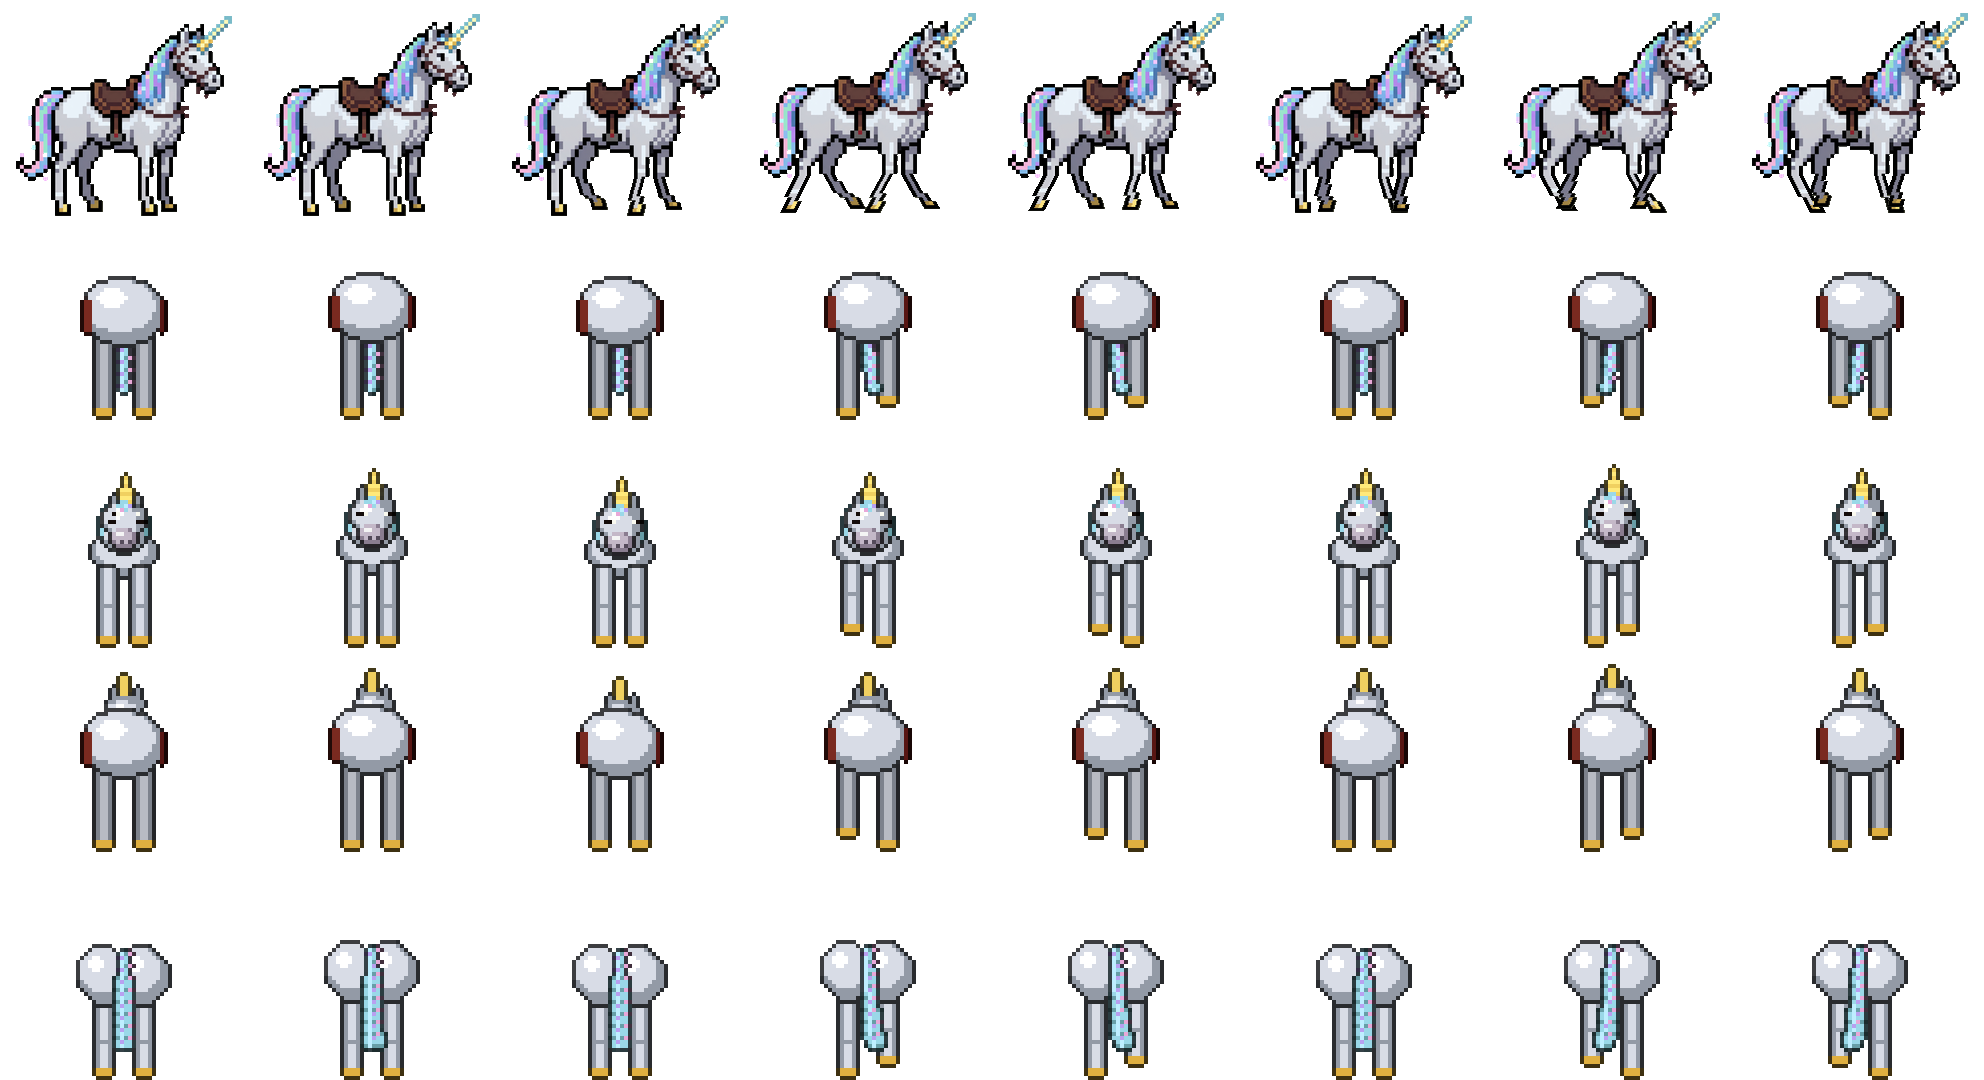
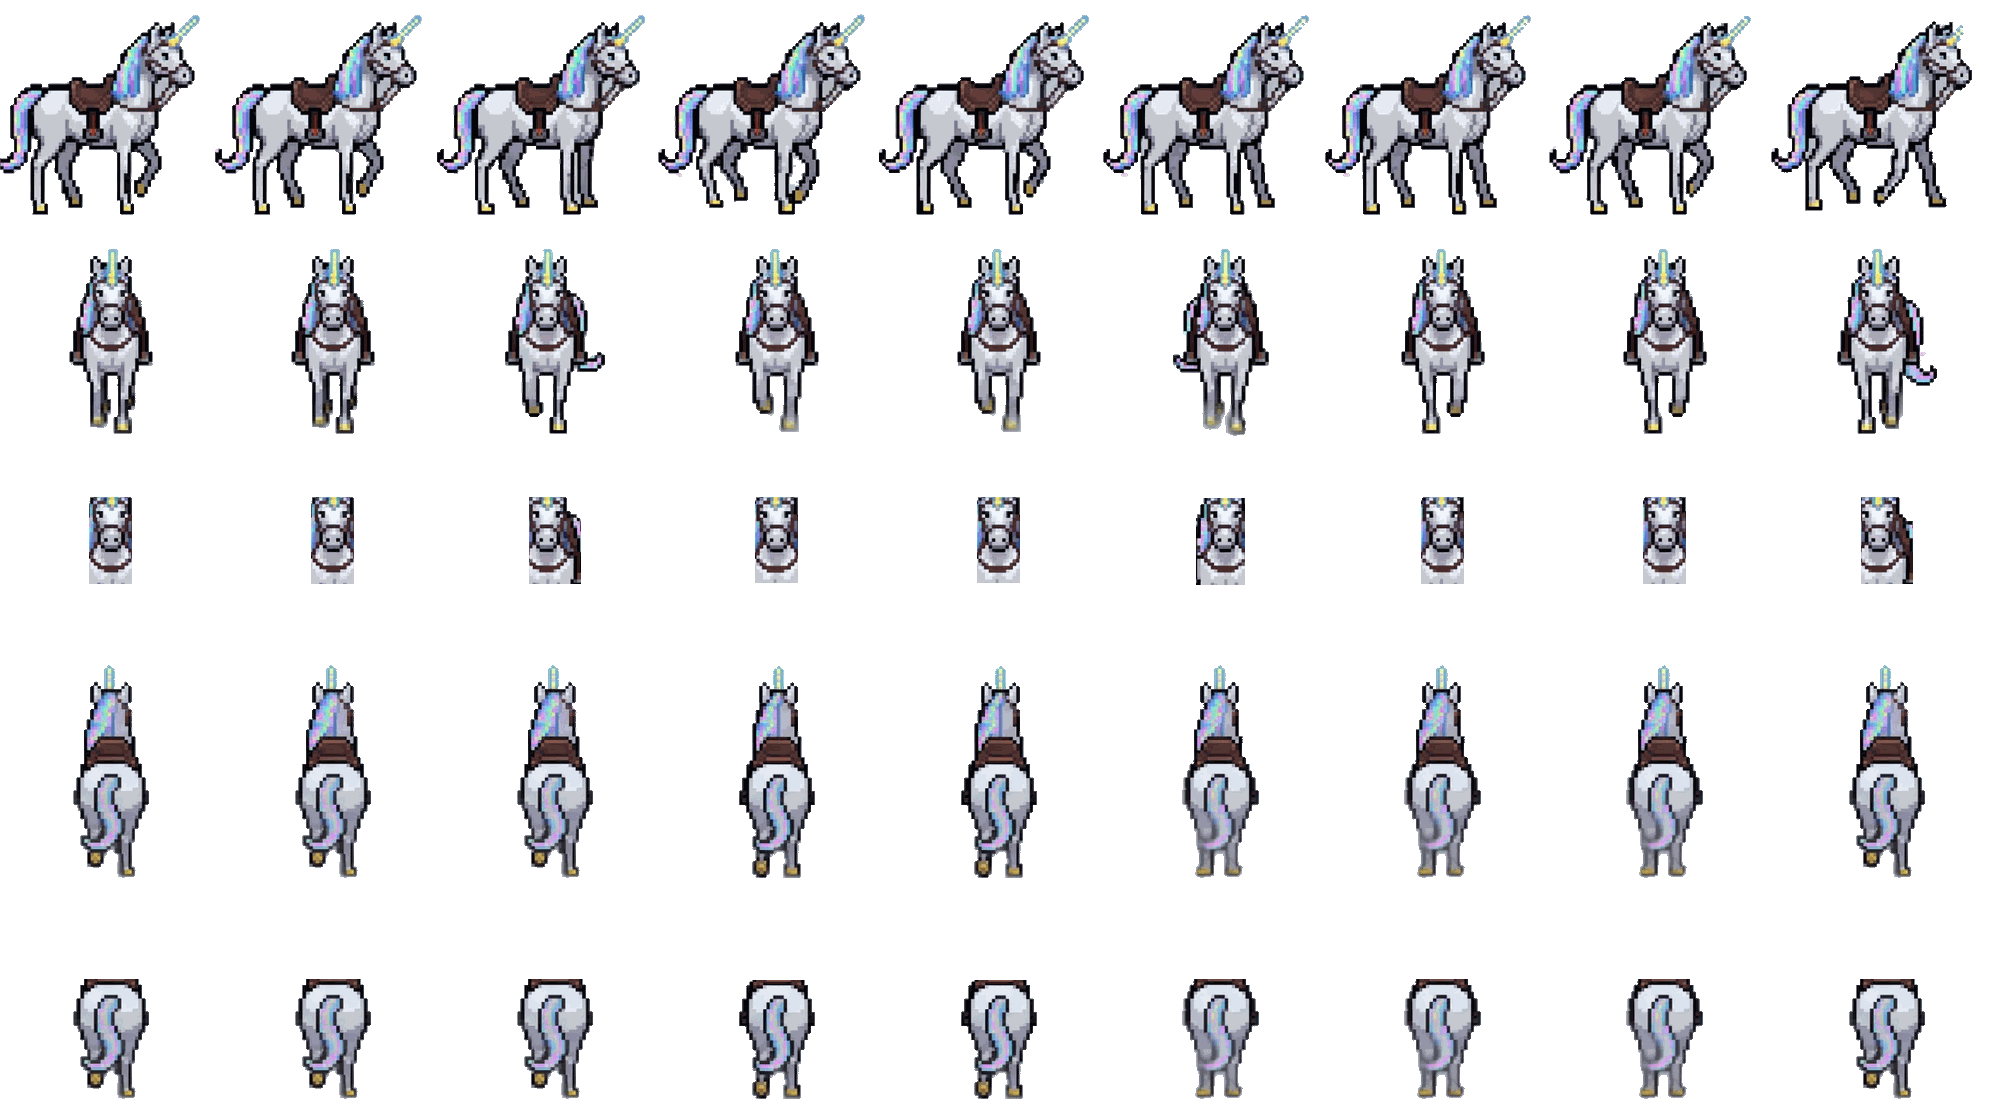
Bach Ma and Hoa Ky Lan: hand-drawn 4-direction sprites
tools/mount_art/fourdir.py extracts frames from the provided sheets
(background, shadows and blurry frames removed) and builds 5-row sheets
with front/back layers drawn over the rider; horns stay behind the rider.

Claude-Session: https://claude.ai/code/session_01AqWtbjMjwaw5KPYKGcCy7Z

diff --git a/server/data/changelog.js b/server/data/changelog.js
@@ -4,6 +4,7 @@ const CHANGELOG = [
   {
     date: '02/11/2026',
     items: [
+      '🦄 Bạch Mã và Hỏa Kỳ Lân có hình 4 hướng mới vẽ tay: mặt trước, sau lưng, nhìn ngang với dáng chạy; bờm và đuôi đung đưa theo nhịp.',
       '🔧 Sửa Hắc Mã trông như đang bay (móng ngựa giờ chạm đất ở cả 4 hướng). Khung danh hiệu dời lên cao hơn, không còn che tên nhân vật.',
       '🐴 Hắc Mã (ngựa ô truy chiến giáp) có hình 4 hướng mới vẽ tay: mặt trước, sau lưng và nhìn ngang với dáng chạy 8 nhịp, giáp xích, chùm lông đỏ trên mũ.',
       '📦 HÒM ĐỒ: khi túi đầy, phần thưởng phó bản, sự kiện, boss, áp tiêu và quà gửi lúc offline không còn rơi xuống đất hay bị mất nữa mà được giữ trong Hòm Đồ. Mở Túi đồ → bấm "Nhận" khi đã dọn chỗ.',

diff --git a/tools/mount_art/fourdir.py b/tools/mount_art/fourdir.py
@@ -1,0 +1,128 @@
+# Thú cưỡi 4 hướng từ sheet người dùng gửi (Bạch Mã, Hỏa Kỳ Lân): hàng mặt trước, sau lưng, ngang quay trái, ngang quay phải.
+#   Tách khung (một lần, từ ảnh gốc):  python3 fourdir.py extract <id> <ảnh gốc>
+#   Ghép sheet vào game:               python3 fourdir.py build [id ...]
+# Chạy SAU build.py / views.py (ghi đè public/assets/mounts/<id>.png). Hắc Mã dùng hacma.py.
+# Hàng sheet: 0 ngang (quay phải) | 1 trước-lớp sau | 2 trước-lớp đè người cưỡi (đầu, cổ, ngực) | 3 sau-lớp sau | 4 sau-lớp đè (mông, đuôi)
+import json, os, sys
+import numpy as np
+from PIL import Image
+from scipy import ndimage as nd
+OUT = '/home/user/Game2d/public/assets/'
+HERE = os.path.dirname(os.path.abspath(__file__))
+PAD = 6
+NR = 8
+# front/back: các khung dùng được (bỏ khung mờ); side: hàng quay phải
+# h: chiều cao thân khi nhìn ngang trên màn hình (px); seat_fx: yên ngựa tính từ phía đuôi (tỉ lệ bề ngang); seat_dy: thấp hơn lưng
+CFG = {
+    # side=7: khung ngang thứ 8 dính logo góc ảnh -> bỏ; hole: (ngưỡng màu, cỡ tối thiểu) lỗ hở kín giữa chân/cổ cần khoét (thân trắng gần màu nền: ngưỡng thấp)
+    'bach_ma': dict(h=100, front=6, back=3, side=7, seat_fx=0.40, seat_dy=8, down=0.16, cut=0.44, ftop=0.15, shadow=None, hole=(9, 250)),
+    'hoa_ky_lan': dict(h=104, front=6, back=6, side=7, seat_fx=0.47, seat_dy=8, down=0.17, cut=0.44, ftop=0.10, shadow=(147, 120, 112), hole=(26, 25)),
+}
+
+def rows_of(objs):
+    """gom khung theo hàng (tâm y gần nhau)"""
+    objs = sorted(objs, key=lambda o: (o[1][0].start + o[1][0].stop) / 2)
+    rows, cur = [], []
+    for o in objs:
+        cy = (o[1][0].start + o[1][0].stop) / 2
+        if cur and cy - (cur[-1][1][0].start + cur[-1][1][0].stop) / 2 > 60: rows.append(cur); cur = []
+        cur.append(o)
+    if cur: rows.append(cur)
+    return [sorted(r, key=lambda o: o[1][1].start) for r in rows]
+
+def extract(mid, path):
+    cfg = CFG[mid]
+    a = np.asarray(Image.open(path).convert('RGB')).astype(int)
+    bg = np.median(np.concatenate([a[:, :10], a[:, -10:]], 1), 1)[:, None, :]
+    d = np.abs(a - bg).sum(2)
+    lab, n = nd.label(d < 34)
+    border = set(lab[0, :]) | set(lab[-1, :]) | set(lab[:, 0]) | set(lab[:, -1]); border.discard(0)
+    fg = ~np.isin(lab, list(border))
+    if cfg['shadow'] is not None:   # bóng tròn dưới chân (game tự vẽ bóng)
+        fg &= np.abs(a - np.array(cfg['shadow'])).sum(2) > 48
+    fg = nd.binary_opening(fg, iterations=1)
+    hd, hm = cfg['hole']
+    hole = (d < hd) & fg; hl, hn = nd.label(hole); hs = nd.sum(hole, hl, range(1, hn + 1))
+    fg &= ~np.isin(hl, [i + 1 for i, s in enumerate(hs) if s > hm])
+    lab2, n2 = nd.label(fg); objs = nd.find_objects(lab2); sz = nd.sum(fg, lab2, range(1, n2 + 1))
+    big = [(i + 1, o) for i, (o, z) in enumerate(zip(objs, sz)) if z > 1500]
+    rows = rows_of(big)
+    assert len(rows) == 4, [len(r) for r in rows]
+    names = ['front', 'back', 'sideL', 'side']
+    outd = os.path.join(HERE, mid + '_src'); os.makedirs(outd, exist_ok=True)
+    off = {}
+    for r, name in zip(rows, names):
+        top = min(o[0].start for _, o in r)
+        for k, (li, o) in enumerate(r):
+            if name == 'sideL': continue
+            m = (lab2 == li)[o]
+            rgba = np.dstack([a[o].astype(np.uint8), (m * 255).astype(np.uint8)])
+            Image.fromarray(rgba, 'RGBA').save(os.path.join(outd, f'{name}_{k}.png'), optimize=True)
+            off[f'{name}_{k}'] = int(o[0].start - top)
+        print(mid, name, len(r))
+    json.dump(off, open(os.path.join(outd, 'offsets.json'), 'w'))
+
+def crisp(im):
+    a = np.asarray(im).copy(); a[..., 3] = np.where(a[..., 3] > 120, 255, 0)
+    al = a[..., 3] > 0; lab, n = nd.label(al)
+    if n > 1:
+        sz = nd.sum(al, lab, range(1, n + 1)); a[np.isin(lab, [i + 1 for i, z in enumerate(sz) if z < 30]), 3] = 0
+    return Image.fromarray(a, 'RGBA')
+
+def build(mid):
+    cfg = CFG[mid]; src = os.path.join(HERE, mid + '_src'); off = json.load(open(os.path.join(src, 'offsets.json')))
+    raw = lambda nm: Image.open(os.path.join(src, nm + '.png')).convert('RGBA')
+    sides0 = [raw(f'side_{k}') for k in range(cfg['side'])]
+    K = 2 * cfg['h'] / np.median([im.height for im in sides0])
+    def load(nm):
+        im = raw(nm); w, h = max(1, round(im.width * K)), max(1, round(im.height * K))
+        return crisp(im.resize((w, h), Image.LANCZOS)), round(off[nm] * K)
+    side = [load(f'side_{k}') for k in range(cfg['side'])]
+    front = [load(f'front_{k}') for k in range(cfg['front'])]
+    back = [load(f'back_{k}') for k in range(cfg['back'])]
+    fi_ = [round(k * len(front) / NR) % len(front) for k in range(NR)]
+    bi_ = [round(k * len(back) / NR) % len(back) for k in range(NR)]
+    si_ = [round(k * len(side) / NR) % len(side) for k in range(NR)]
+    cols = [(side[0], front[0], back[0])] + [(side[si_[k]], front[fi_[k]], back[bi_[k]]) for k in range(NR)]
+    allf = [f for c in cols for f in c]
+    CW = max(im.width for im, _ in allf) + 2 * PAD
+    gnd = lambda fr, f=max: f(o + im.height for im, o in fr)
+    GS, GF, GB = gnd(side), gnd(front), gnd(back, min)
+    base = max(GS, GF, GB) + 2
+    DS, DF, DB = base - GS, base - GF, base - GB
+    CH = base + PAD
+    NT = len(cols)
+    sheet = Image.new('RGBA', (CW * NT, CH * 5)); seats = {'side': [], 'down': [], 'up': []}
+    def top_at(im, x):
+        ys = np.nonzero(np.asarray(im)[:, int(x), 3] > 0)[0]; return ys[0] if len(ys) else 0
+    for ci, ((si, so), (fi, fo), (bi, bo)) in enumerate(cols):
+        x0 = ci * CW
+        al = np.asarray(si)[..., 3] > 0; ys, xs = np.nonzero(al[:int(al.shape[0] * 0.6)])
+        px = round(CW / 2 - xs.mean()); py = so + DS
+        sheet.alpha_composite(si, (x0 + px, py))
+        sx = cfg['seat_fx'] * si.width
+        seats['side'].append([round(float(px + sx), 1), round(float(py + top_at(si, sx) + cfg['seat_dy']), 1)])
+        fa = np.asarray(fi).copy(); h, w = fa.shape[:2]
+        ft = np.nonzero((fa[..., 3] > 0).any(1))[0][0]   # sừng / gạc trên đỉnh đầu (ftop) vẽ sau người cưỡi, không đâm lên mặt
+        m = np.zeros((h, w), bool); m[ft + int(h * cfg['ftop']):int(h * 0.62), int(w * 0.24):int(w * 0.76)] = True
+        over = fa.copy(); over[~m] = 0; pxf = round(CW / 2 - w / 2); fo += DF
+        sheet.alpha_composite(fi, (x0 + pxf, CH + fo)); sheet.alpha_composite(Image.fromarray(over, 'RGBA'), (x0 + pxf, 2 * CH + fo))
+        ftop = np.nonzero((fa[..., 3] > 0).any(1))[0][0]
+        seats['down'].append([round(CW / 2, 1), round(float(fo + ftop + h * cfg['down']), 1)])
+        ba = np.asarray(bi).copy(); h2, w2 = ba.shape[:2]; cut = int(h2 * cfg['cut'])
+        over2 = ba.copy(); over2[:cut] = 0; pxb = round(CW / 2 - w2 / 2); bo += DB
+        sheet.alpha_composite(bi, (x0 + pxb, 3 * CH + bo)); sheet.alpha_composite(Image.fromarray(over2, 'RGBA'), (x0 + pxb, 4 * CH + bo))
+        seats['up'].append([round(CW / 2, 1), round(float(bo + cut + 2), 1)])
+    sheet.quantize(colors=255, method=Image.FASTOCTREE, dither=Image.NONE).save(OUT + 'mounts/' + mid + '.png', optimize=True)
+    meta = json.load(open(OUT + 'mounts.json'))
+    meta['per'][mid] = {'cell': [CW, CH], 'foot': [CW / 2, int(base) - 3], 'footFB': [CW / 2, int(base) - 3],
+                        'frames': {'idle': [0, 1], 'run': [1, NR]}, 'rows': {'side': [0], 'down': [1, 2], 'up': [3, 4]},
+                        'scale': 0.5, 'runMs': 95, 'idleMs': 700}
+    meta['seats'][mid] = seats; meta['seat'][mid] = seats['side']
+    open(OUT + 'mounts.json', 'w').write(json.dumps(meta, default=float))
+    print(mid, CW, CH, NT, 'K=%.2f' % K)
+
+if __name__ == '__main__':
+    if sys.argv[1] == 'extract': extract(sys.argv[2], sys.argv[3])
+    else:
+        for m in sys.argv[2:] or list(CFG): build(m)

diff --git a/tools/mount_art/views.py b/tools/mount_art/views.py
@@ -482,6 +482,6 @@ def build(name):
 
 if __name__ == '__main__':
     import sys
-    names = sys.argv[1:] or [k for k in P if k != 'hac_ma']   # Hắc Mã có ảnh 4 hướng riêng: hacma.py
+    names = sys.argv[1:] or [k for k in P if k not in ('hac_ma', 'bach_ma', 'hoa_ky_lan')]   # có ảnh 4 hướng vẽ tay: hacma.py, fourdir.py
     for nm in names:
         build(nm); print('ok', nm)
